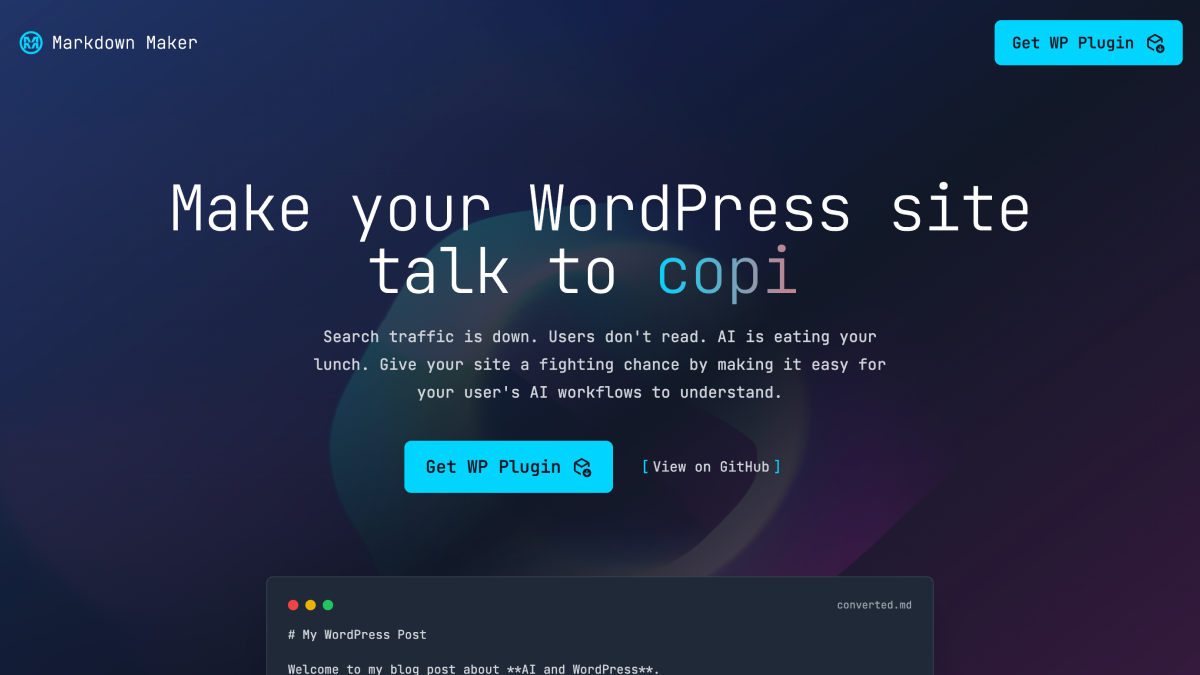
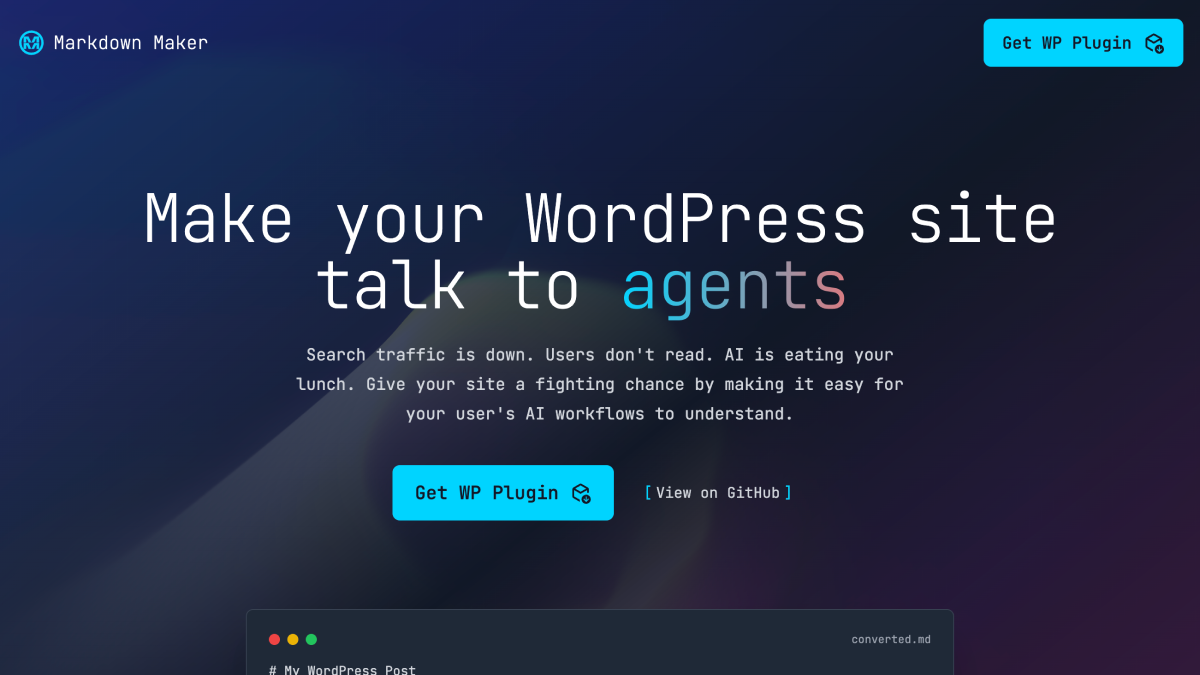
mobile

diff --git a/src/App.tsx b/src/App.tsx
@@ -8,7 +8,7 @@ function App() {
   const [isTyping, setIsTyping] = useState(true);
   const vantaRef = useRef<any>(null);
   
-  const phrases = ['agents', 'LLMs', 'copilots', 'GPT', 'tools'];
+  const phrases = ['agents', 'LLMs', 'copilots', 'GPTs', 'tools'];
   
   useEffect(() => {
     const currentPhrase = phrases[currentPhraseIndex];
@@ -66,17 +66,17 @@ function App() {
         <div className="absolute inset-0 bg-gradient-to-br from-blue-900/40 via-gray-900 to-pink-900/40"></div>
         
         {/* Navigation */}
-        <nav className="relative z-10 flex items-center justify-between px-6 py-8 lg:px-8">
+        <nav className="relative z-10 flex items-center justify-between px-3 md:px-6 pt-3 md:py-8 lg:px-8">
           <div className="flex items-center space-x-2">
-            <img src="/mm.svg" alt="Markdown Maker" className="h-8 w-8" />
-            <span className="text-xl font-extralight">Markdown Maker</span>
+            <img src="/mm.svg" alt="Markdown Maker" className=" h-6 md:h-8 w-6 md:w-8" />
+            <span className="text-sm md:text-xl font-extralight">Markdown Maker</span>
           </div>
             <a 
               href="https://github.com/clarklab/markdown-maker-wp-plugin/raw/refs/heads/main/markdown-maker-plugin-superfun.zip" 
-              className="inline-flex items-center px-5 py-3 bg-cyan-400 text-gray-900 rounded-lg text-lg font-medium hover:bg-cyan-300 transition-colors"
+              className="inline-flex items-center px-2.5 md:px-5 py-2 md:py-3 bg-cyan-400 text-gray-900 rounded-lg text-xs md:text-lg font-medium hover:bg-cyan-300 transition-colors"
             >
               Get WP Plugin
-              <svg xmlns="http://www.w3.org/2000/svg" height="24px" viewBox="0 -960 960 960" width="24px" fill="currentColor" className="w-6 h-6 ml-3">
+              <svg xmlns="http://www.w3.org/2000/svg" height="24px" viewBox="0 -960 960 960" width="24px" fill="currentColor" className="w-5 md:w-6 h-5 md:h-6 ml-1 md:ml-3">
                 <path d="m720-80 120-120-28-28-72 72v-164h-40v164l-72-72-28 28L720-80ZM480-800 243-663l237 137 237-137-237-137ZM120-321v-318q0-22 10.5-40t29.5-29l280-161q10-5 19.5-8t20.5-3q11 0 21 3t19 8l280 161q19 11 29.5 29t10.5 40v159h-80v-116L479-434 200-596v274l240 139v92L160-252q-19-11-29.5-29T120-321ZM720 0q-83 0-141.5-58.5T520-200q0-83 58.5-141.5T720-400q83 0 141.5 58.5T920-200q0 83-58.5 141.5T720 0ZM480-491Z"/>
               </svg>
             </a>
@@ -86,20 +86,20 @@ function App() {
         <div className="hero relative z-10 px-6 py-12 lg:px-8 lg:py-24">
           
           <div className="mx-auto max-w-5xl text-center">
-            <h1 className="text-4xl font-extralight tracking-tight sm:text-6xl lg:text-7xl">
+            <h1 className="text-2xl md:text-4xl font-extralight tracking-tight sm:text-6xl lg:text-7xl">
               Make your WordPress site talk to{' '}
               <span className="bg-gradient-to-r from-cyan-400 to-pink-400 bg-clip-text text-transparent">
                 {displayText}
                 <span className="animate-pulse">|</span>
               </span>
             </h1>
-            <p className="mt-6 text-lg leading-8 text-gray-300 max-w-2xl mx-auto">
+            <p className="mt-6 text-sm md:text-lg leading-4.5 md:leading-8 text-gray-300 max-w-2xl mx-auto">
               Search traffic is down. Users don't read. AI is eating your lunch. Give your site a fighting chance by making it easy for your user's AI workflows to understand.
             </p>
-            <div className="mt-10 flex items-center justify-center gap-x-4">
+            <div className="mt-10 flex flex-col md:flex-row items-center justify-center gap-x-4 gap-y-4">
             <a 
               href="https://github.com/clarklab/markdown-maker-wp-plugin/raw/refs/heads/main/markdown-maker-plugin-superfun.zip" 
-              className="inline-flex items-center px-6 py-4 bg-cyan-400 text-gray-900 rounded-lg text-xl font-medium hover:bg-cyan-300 transition-colors"
+              className="inline-flex items-center px-6 py-4 bg-cyan-400 text-gray-900 rounded-lg text-base md:text-xl font-medium hover:bg-cyan-300 transition-colors"
             >
               Get WP Plugin
               <svg xmlns="http://www.w3.org/2000/svg" height="24px" viewBox="0 -960 960 960" width="24px" fill="currentColor" className="w-6 h-6 ml-3">
@@ -152,11 +152,11 @@ to markdown format using Markdown Maker.
       <section id="features" className="py-20 px-6 lg:px-8 bg-gray-800">
         <div className="mx-auto max-w-6xl">
           <div className="text-center mb-16">
-            <h2 className="text-3xl font-extralight tracking-tight sm:text-4xl">
+            <h2 className="text-2xl md:text-3xl font-extralight tracking-tight sm:text-4xl">
               Built for the{' '}
               <span className="text-cyan-400">AI Era</span>
             </h2>
-            <p className="mt-4 text-gray-400 max-w-2xl mx-auto">
+            <p className="mt-4 text-sm md:text-lg text-gray-400 max-w-2xl mx-auto">
               We built a real WordPress plugin (yes really!) to make converting your WordPress content to markdown easy.
             </p>
           </div>
@@ -169,10 +169,10 @@ to markdown format using Markdown Maker.
                   <Zap className="h-6 w-6" />
                 </div>
               </div>
-              <h3 className="text-xl font-semibold mb-4 group-hover:text-cyan-400 transition-colors">
+              <h3 className="text-xl font-extralight mb-4 group-hover:text-cyan-400 transition-colors">
                 One-Click Conversion
               </h3>
-              <p className="text-gray-400 leading-relaxed">
+              <p className="text-sm md:text-base text-gray-400">
                 Convert any WordPress post or page to clean markdown format with a single click. 
                 No complex settings or configurations required. No loading time or waiting.
               </p>
@@ -185,10 +185,10 @@ to markdown format using Markdown Maker.
                   <Copy className="h-6 w-6" />
                 </div>
               </div>
-              <h3 className="text-xl font-semibold mb-4 group-hover:text-pink-400 transition-colors">
+              <h3 className="text-xl font-extralight mb-4 group-hover:text-pink-400 transition-colors">
                 Copy-Paste Perfect
               </h3>
-              <p className="text-gray-400 leading-relaxed">
+              <p className="text-sm md:text-base text-gray-400">
                 Converted text is optimized for LLMs and AI agents. Clean, accurate formatting 
                 ensures your content works perfectly with ChatGPT, Claude, Perplexity, and more.
               </p>
@@ -201,10 +201,10 @@ to markdown format using Markdown Maker.
                   <FileText className="h-6 w-6" />
                 </div>
               </div>
-              <h3 className="text-xl font-semibold mb-4 group-hover:text-cyan-400 transition-colors">
+              <h3 className="text-xl font-extralight mb-4 group-hover:text-cyan-400 transition-colors">
                 No AI Guarentee
               </h3>
-              <p className="text-gray-400 leading-relaxed">
+              <p className="text-sm md:text-base text-gray-400">
                 We wrote the plugin and made this site with an AI agent (yes really!), but the plugin is old fashioned vanilla javascript. No AI, no API calls. Bulletproof.
               </p>
             </div>
@@ -215,7 +215,7 @@ to markdown format using Markdown Maker.
       {/* How It Works */}
       <section className="py-20 px-6 lg:px-8">
         <div className="mx-auto max-w-4xl text-center">
-          <h2 className="text-3xl font-extralight tracking-tight sm:text-4xl mb-16">
+          <h2 className="text-2xl md:text-3xl font-extralight tracking-tight sm:text-4xl mb-16">
             Simple as <span className="text-pink-400">1-2-3</span>
           </h2>
           
@@ -224,7 +224,7 @@ to markdown format using Markdown Maker.
               <div className="w-16 h-16 rounded-full bg-gradient-to-br from-cyan-500 to-cyan-400 text-gray-900 flex items-center justify-center text-2xl font-extralight mb-4">
                 1
               </div>
-              <h3 className="text-xl font-semibold mb-2">Install Plugin</h3>
+              <h3 className="text-xl font-extralight mb-2">Install Plugin</h3>
               <p className="text-gray-400">Download and activate Markdown Maker in your WordPress admin</p>
             </div>
             
@@ -232,7 +232,7 @@ to markdown format using Markdown Maker.
               <div className="w-16 h-16 rounded-full bg-gradient-to-br from-pink-500 to-pink-400 text-gray-900 flex items-center justify-center text-2xl font-extralight mb-4">
                 2
               </div>
-              <h3 className="text-xl font-semibold mb-2">Add Buttons</h3>
+              <h3 className="text-xl font-extralight mb-2">Add Buttons</h3>
               <p className="text-gray-400">Use our developer-friendly plugin and functions to match any theme natively</p>
             </div>
             
@@ -240,7 +240,7 @@ to markdown format using Markdown Maker.
               <div className="w-16 h-16 rounded-full bg-gradient-to-br from-cyan-500 to-pink-400 text-gray-900 flex items-center justify-center text-2xl font-extralight mb-4">
                 3
               </div>
-              <h3 className="text-xl font-semibold mb-2">Copy & Go!</h3>
+              <h3 className="text-xl font-extralight mb-2">Copy & Go!</h3>
               <p className="text-gray-400">Get clean markdown ready for agents, LLMs, documentation, or any purpose</p>
             </div>
           </div>
@@ -263,7 +263,7 @@ to markdown format using Markdown Maker.
           <div className="flex flex-col sm:flex-row gap-4 justify-center">
           <a 
               href="https://github.com/clarklab/markdown-maker-wp-plugin/raw/refs/heads/main/markdown-maker-plugin-superfun.zip" 
-              className="inline-flex items-center px-5 py-3 bg-cyan-400 text-gray-900 rounded-lg text-lg font-medium hover:bg-cyan-300 transition-colors"
+              className="inline-flex items-center justify-center px-5 py-3 bg-cyan-400 text-gray-900 rounded-lg text-lg font-medium hover:bg-cyan-300 transition-colors"
             >
               Get WP Plugin
               <svg xmlns="http://www.w3.org/2000/svg" height="24px" viewBox="0 -960 960 960" width="24px" fill="currentColor" className="w-6 h-6 ml-3">
@@ -272,7 +272,7 @@ to markdown format using Markdown Maker.
             </a>
             <a
               href="https://github.com/clarklab/markdown-maker-wp-plugin/"
-              className="inline-flex items-center justify-center rounded-lg border border-gray-600 px-8 py-4 text-lg font-semibold text-gray-300 hover:bg-gray-700 hover:text-white transition-all duration-200"
+              className="inline-flex items-center justify-center rounded-lg border border-gray-600 px-8 py-4 text-lg font-extralight text-gray-300 hover:bg-gray-700 hover:text-white transition-all duration-200"
             >
               View Documentation
             </a>
@@ -300,7 +300,7 @@ to markdown format using Markdown Maker.
             </div>
             
             <div>
-              <h3 className="text-sm font-semibold text-gray-200 tracking-wider uppercase mb-4">
+              <h3 className="text-sm font-extralight text-gray-200 tracking-wider uppercase mb-4">
                 Product
               </h3>
               <ul className="space-y-3">
@@ -311,7 +311,7 @@ to markdown format using Markdown Maker.
             </div>
             
             <div>
-              <h3 className="text-sm font-semibold text-gray-200 tracking-wider uppercase mb-4">
+              <h3 className="text-sm font-extralight text-gray-200 tracking-wider uppercase mb-4">
                 Support
               </h3>
               <ul className="space-y-3">
